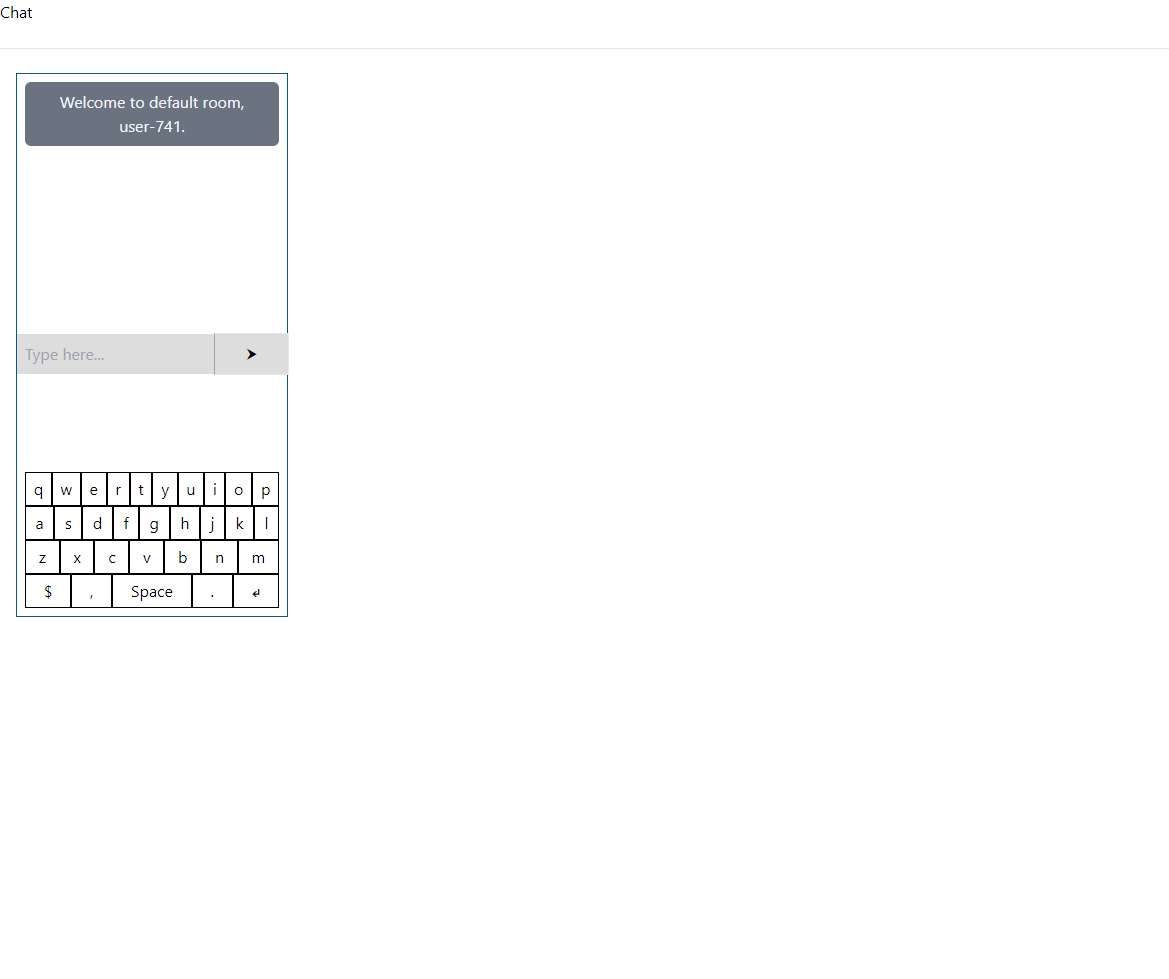
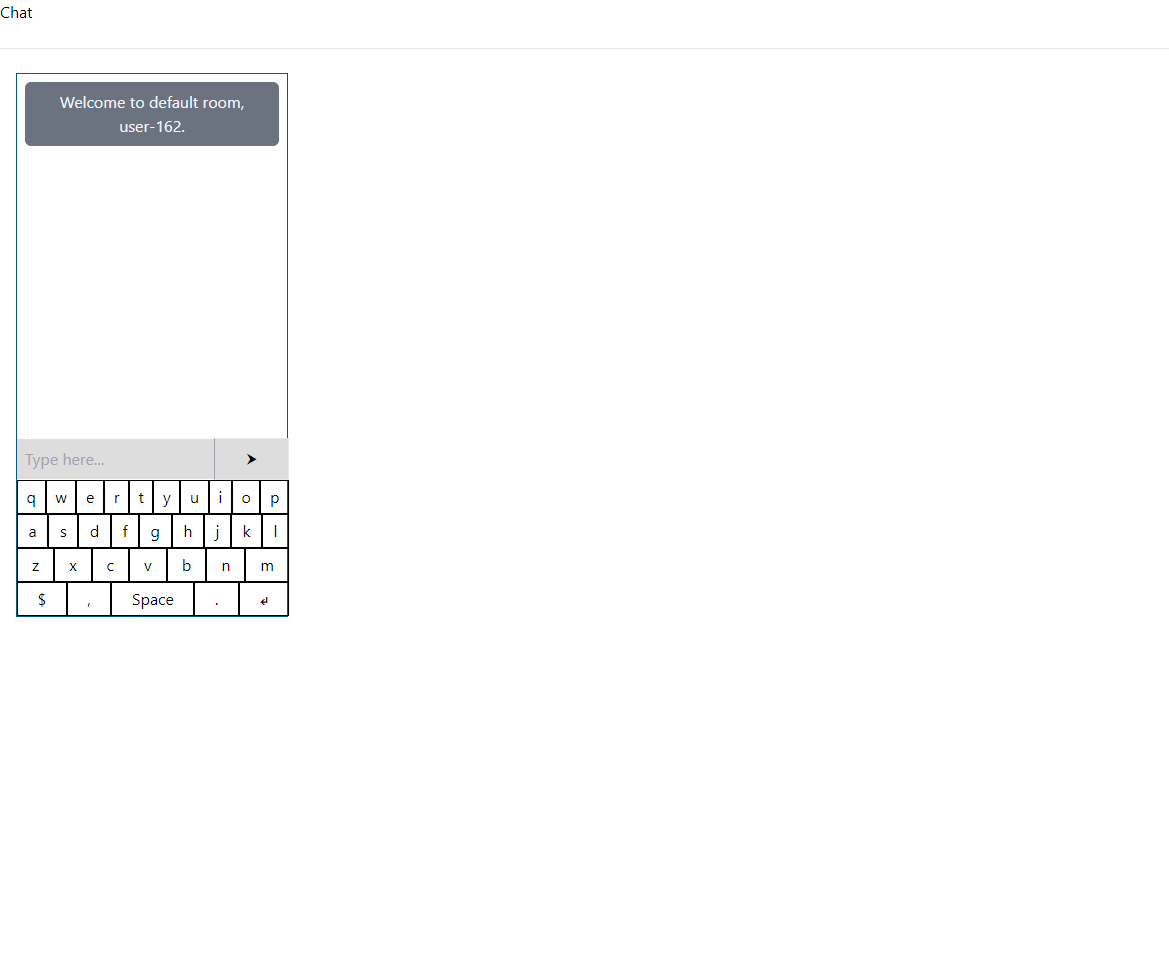
style: updated chat and kb layout; refactor: moved Keyboard component codes

Changed region(s): [[0.0, 0.429, 0.2464, 0.6435], [0.0, 0.3371, 0.2464, 0.3984], [0.1232, 0.1226, 0.154, 0.1532]]

diff --git a/client/src/pages/Chat/Chat.tsx b/client/src/pages/Chat/Chat.tsx
@@ -3,9 +3,10 @@ import { FC, useEffect, useRef, useState } from 'react';
 import Messages from '../../components/Messages/Messages';
 import InputBtn from '../../components/InputBtn/InputBtn';
 import Keyboard from '../../components/Keyboard/Keyboard';
+import { keysDict } from '../../helpers/keyboard';
 import { uuid } from '../../helpers/misc';
 import { TStateCount, TFrom, ESocketEventsDict, IClientMessageData, IUser } from '../../types/global';
-import './Chat.scss';
+import styles from './Chat.module.scss';
 
 interface IChatProps {
   socket: Socket;
@@ -231,28 +232,42 @@ const Chat: FC<IChatProps> = (props) => {
 
   };
 
+  function handleClickKey(currKey:string) {
+    // COMMT: TODO: add toggle to symbol KB layout
+    if (keysDict[currKey]==='$') return;
+    // COMMT: TODO: send data
+    if (keysDict[currKey]==='Enter') return;
+
+    console.log(keysDict[currKey]);
+
+
+  };
+
   return (
     <div>
       <p>Chat</p>
       <br /><hr /><br />
-      <div className='messages-input-container'>
-        <Messages messageList={messageList} onNewMessage={onNewMessage} />
-        <div>
-          {isTypingText ? <p>{typingUser || 'A user'} is typing...</p> : ''}
-        </div>
-        <InputBtn
-          onNewMessage={(messageText)=>handleAddMessageToList('self', messageText)}
-          setOnTyping={setOnTyping}
-        />
-        {
-          isKeyboard && !isAuto && (
-            <div>
-              <Keyboard
 
+      <div className={styles['chat-container']}>
+        <Messages messageList={messageList} onNewMessage={onNewMessage} />
+
+        <div >
+          <div>
+            {isTypingText ? <p>{typingUser || 'A user'} is typing...</p> : ''}
+          </div>
+          <InputBtn
+            onNewMessage={(messageText)=>handleAddMessageToList('self', messageText)}
+            setOnTyping={setOnTyping}
+          />
+          {
+            isKeyboard && !isAuto && (
+              <Keyboard
+                onClickKey={handleClickKey}
               />
-            </div>
-          )
-        }
+            )
+          }
+        </div>
+
       </div>
     </div>
   )

diff --git a/client/src/components/Keyboard/Keyboard.tsx b/client/src/components/Keyboard/Keyboard.tsx
@@ -1,25 +1,21 @@
 /* eslint-disable jsx-a11y/no-static-element-interactions */
 /* eslint-disable jsx-a11y/click-events-have-key-events */
 import { FC, useEffect, useState } from 'react';
+import { keysDict } from '../../helpers/keyboard';
 import styles from './Keyboard.module.scss';
 
 interface IKeyboardProps {
+  onClickKey(el: string): void;
 }
 
 const Keyboard: FC<IKeyboardProps> = (props) => {
-  const keysDict:{[key:string]:string} = {
-    'q':'q', 'w':'w', 'e':'e', 'r':'r', 't':'t', 'y':'y', 'u':'u', 'i':'i', 'o':'o', 'p':'p',
-    'a':'a', 's':'s', 'd':'d', 'f':'f', 'g':'g', 'h':'h', 'j':'j', 'k':'k', 'l':'l',
-    'z':'z', 'x':'x', 'c':'c', 'v':'v', 'b':'b', 'n':'n', 'm':'m',
-    '$':'$', ',':',', 'Space':' ', '.':'.', '↵':'Enter'
-  };
 
   return (
     <div className={styles['keys-container']} >
       {
         Object.keys(keysDict)?.map(el => (
           <>
-            <div key={el} className={styles['key']} onClick={():void => console.log(keysDict[el])} >
+            <div key={el} className={styles['key']} onClick={() => props.onClickKey(el)} >
               {el}
             </div>
             {(el === 'p' || el === 'l' || el === 'm') && (

diff --git a/client/src/components/Keyboard/Keyboard.module.scss b/client/src/components/Keyboard/Keyboard.module.scss
@@ -2,13 +2,10 @@
 
 .keys-container {
   display: flex;
-  // flex-direction: column;
   flex-wrap: wrap;
   justify-content: space-between;
   align-items: center;
-  // width: 100%;
-  // height: 140%;
-  @apply my-2 mx-2;
+  // @apply my-2 mx-2;
 }
 
 .line-break {
@@ -18,9 +15,7 @@
 .key {
   flex-grow: 1;
   border: 1px solid black;
-  // @apply py-1 px-2;
   padding: 4px 2px;
-  // width: 100%;
   text-align: center;
   @apply cursor-pointer select-none;
 }

diff --git a/client/src/helpers/keyboard.ts b/client/src/helpers/keyboard.ts
@@ -1,0 +1,6 @@
+export const keysDict:{[key:string]:string} = {
+  'q':'q', 'w':'w', 'e':'e', 'r':'r', 't':'t', 'y':'y', 'u':'u', 'i':'i', 'o':'o', 'p':'p',
+  'a':'a', 's':'s', 'd':'d', 'f':'f', 'g':'g', 'h':'h', 'j':'j', 'k':'k', 'l':'l',
+  'z':'z', 'x':'x', 'c':'c', 'v':'v', 'b':'b', 'n':'n', 'm':'m',
+  '$':'$', ',':',', 'Space':' ', '.':'.', '↵':'Enter'
+};

diff --git a/client/src/pages/Chat/Chat.module.scss b/client/src/pages/Chat/Chat.module.scss
@@ -1,6 +1,6 @@
 @use '../../styles/App.scss' as *;
 
-.messages-input-container {
+.chat-container {
   // COMMT: using direct function w/ dynamic params
   // @include use-flex('flex_left_start');
 
